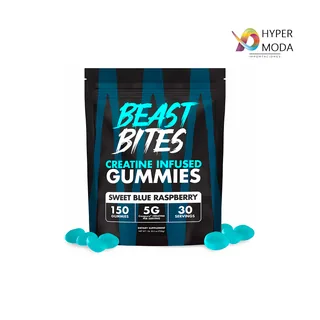
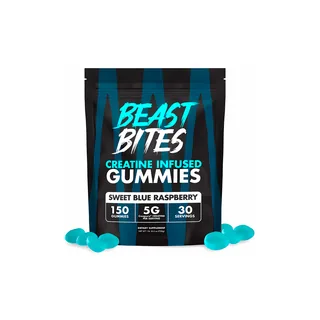
Pull the COSRX essence, strip the supplier watermarks, rework a kit
The supplier ships one image per product and three of them were not product
photographs.

The COSRX one is a Dropi contest graphic: an orange background, a gold trophy,
a "DROPI CUP by dropi" badge, and packaging whose label reads "Beieg 96%
Saail Secretan Filtrate Maekd". It is an AI composite, the only image the
supplier has, and there is no crop of it that is a photograph of the product.
The essence is unpublished until there is a real one — it was the strongest
K-beauty position in the sweep, so it is worth relisting the day a photo
exists.

Goli and Beast Bites carried a HYPER MODA IMPORTACIONES watermark in the
corner. Painted out against the white they already sat on, re-uploaded, and
the packshots regenerated from the cleaned files.

kit-poros loses the COSRX essence, so it becomes the azelaic serum with the
same clay mask: 1,148 down to 999, verified against a real cart.

Claude-Session: https://claude.ai/code/session_019P4Aa4RoLichzZgbMQYbAQ

Changed region(s): [[0.7188, 0.0938, 0.9375, 0.1875]]

diff --git a/src/data/woo.js b/src/data/woo.js
@@ -1,7 +1,7 @@
 // GENERATED by scripts/sync-woo.mjs — do not edit. Re-run `npm run sync:woo`.
 export default {
  "store": "https://vitalsuplementos.com.mx",
- "syncedAt": "2026-08-30T00:17:37.205Z",
+ "syncedAt": "2026-08-30T00:44:15.858Z",
  "shipping": {
   "probedAt": [
    {
@@ -84,7 +84,7 @@ export default {
    "id": 189,
    "sku": "CREATINA-BEAST-BITES",
    "name": "Beast Bites Gomitas de Creatina 150 pzas · 5 g Creapure",
-   "permalink": "https://vitalsuplementos.com.mx/product/beast-bites-gomitas-de-creatina-150-pzas-%c2%b7-5-g-creapure/",
+   "permalink": "https://vitalsuplementos.com.mx/product/beast-bites-gomitas-de-creatina-150-piezas/",
    "price": 699,
    "was": 0,
    "inStock": true,
@@ -136,16 +136,6 @@ export default {
    "name": "Anua PDRN Hyaluronic Acid Capsule Mist 100 ml",
    "permalink": "https://vitalsuplementos.com.mx/product/anua-pdrn-hyaluronic-acid-capsule-mist-100-ml/",
    "price": 599,
-   "was": 0,
-   "inStock": true,
-   "currency": "MXN"
-  },
-  "cosrx-snail-96": {
-   "id": 156,
-   "sku": "3063",
-   "name": "COSRX Advanced Snail 96 Mucin Power Essence 100 ml",
-   "permalink": "https://vitalsuplementos.com.mx/product/cosrx-advanced-snail-96-mucin-power-essence-100-ml/",
-   "price": 699,
    "was": 0,
    "inStock": true,
    "currency": "MXN"

diff --git a/src/data/bundles.js b/src/data/bundles.js
@@ -34,11 +34,11 @@ export const BUNDLES = [
   {
     slug: 'kit-poros',
     coupon: 'kit-poros',
-    n: 'Rutina de poros',
+    n: 'Kit calma y poros',
     kicker: 'Kit · Skincare coreano',
-    items: ['cosrx-snail-96', 'medicube-zero-pore'],
+    items: ['anua-azelaico', 'medicube-zero-pore'],
     save: 149,
-    claim: 'La mascarilla de arcilla una o dos veces por semana; la esencia de caracol el resto de los días.'
+    claim: 'La mascarilla de arcilla una o dos veces por semana; el serum de azelaico las noches restantes.'
   },
   {
     slug: 'kit-longevidad',
